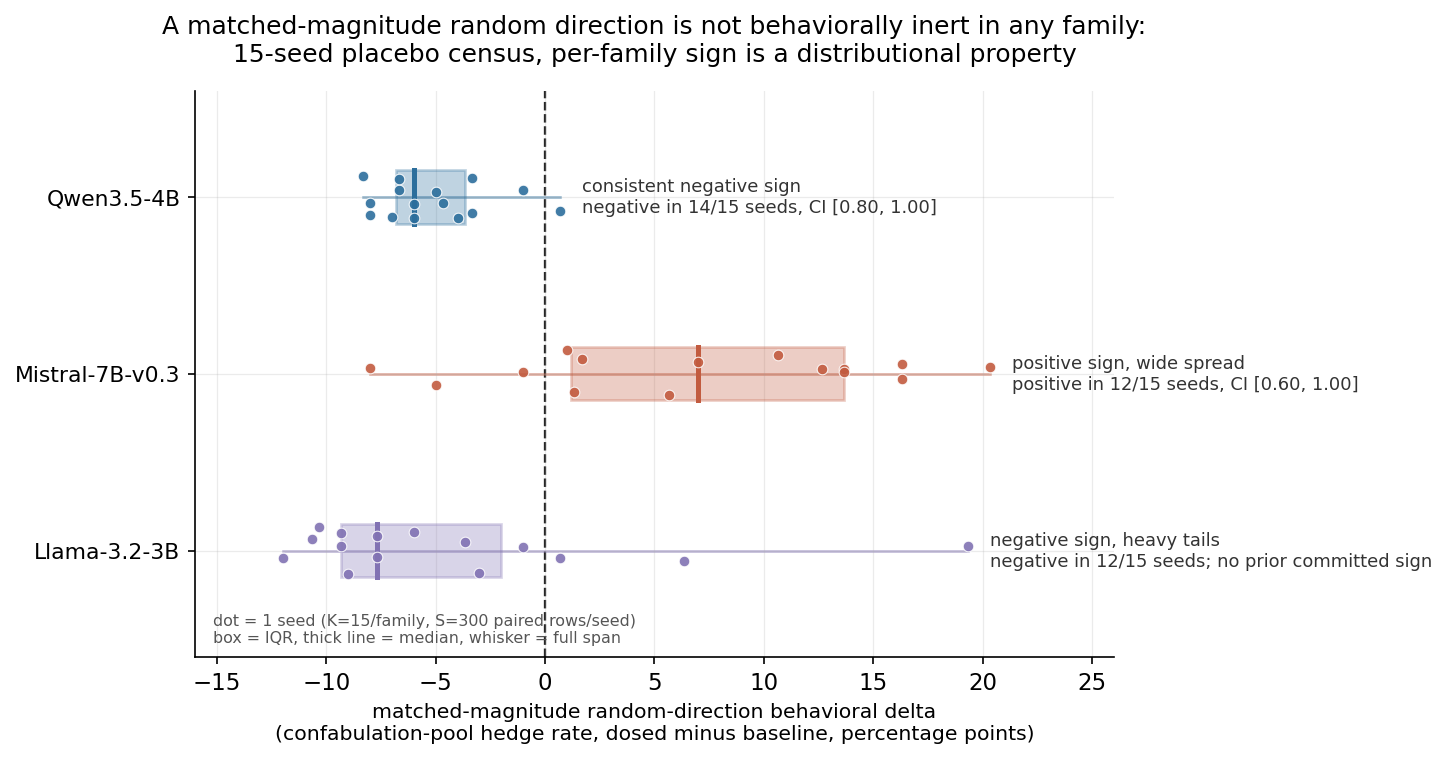
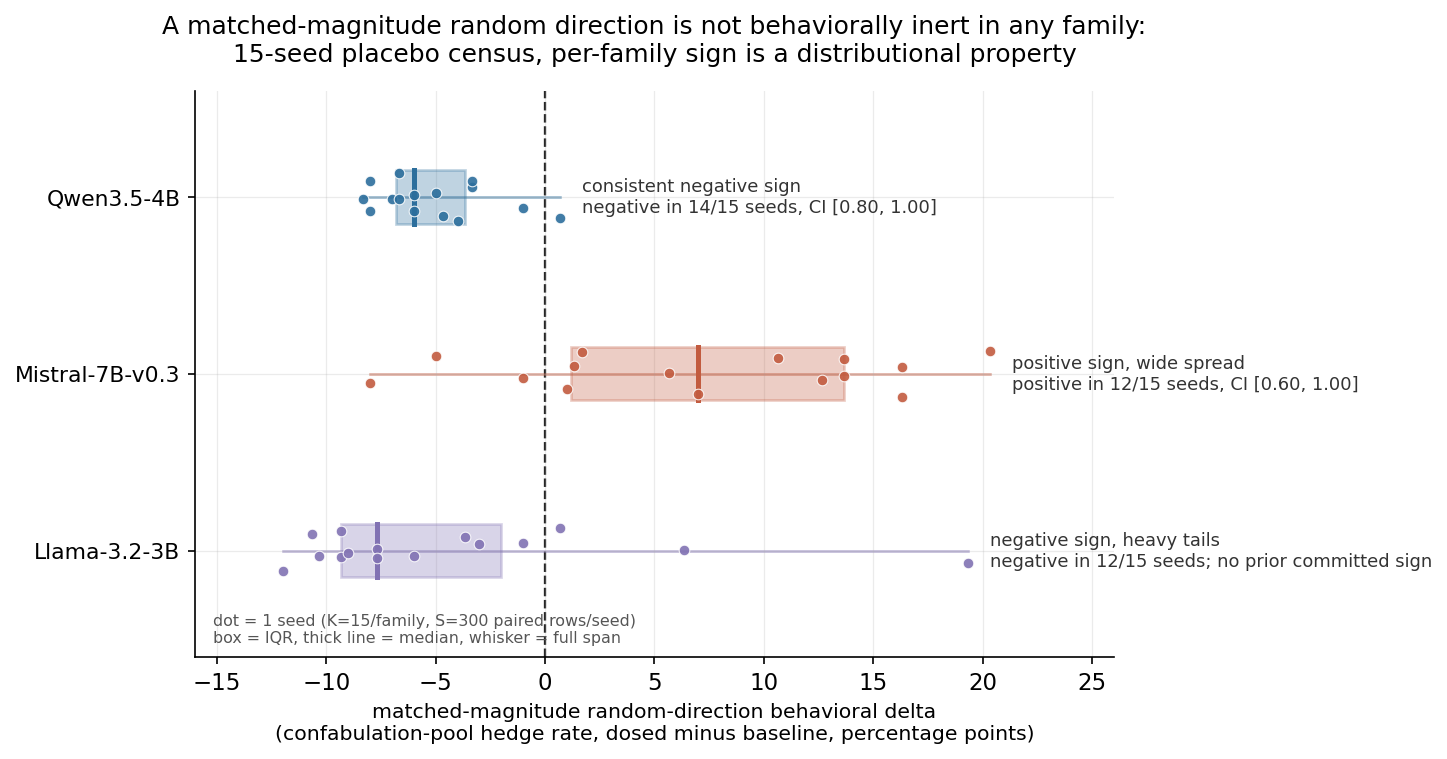
Paper 5: deterministic jitter seed for the placebo-census figure
build_restructure_figures.py seeded the per-family scatter jitter with
abs(hash(fam)), and Python string hashes are process-salted, so the figure
was not byte-reproducible across runs. Seed with zlib.crc32(fam.encode())
instead and regenerate once; only the cosmetic jitter offsets change, no
data. Verified byte-identical across two consecutive runs.

Claude-Session: https://claude.ai/code/session_012M6wLjiA3PHuTRN3V72TWD

diff --git a/papers/paper-5-actuation/scripts/build_restructure_figures.py b/papers/paper-5-actuation/scripts/build_restructure_figures.py
@@ -23,6 +23,8 @@ generation text).
 """
 from __future__ import annotations
 
+import zlib
+
 import json
 import statistics
 from pathlib import Path
@@ -130,7 +132,8 @@ def fig_d_placebo_census():
         # median line
         ax.plot([median, median], [y - box_h / 2, y + box_h / 2], color=color, lw=2.4, zorder=3)
         # individual seeds, jittered
-        rng = np.random.default_rng(abs(hash(fam)) % (2**32))
+        # zlib.crc32 is stable across processes; Python's str hash is salted
+        rng = np.random.default_rng(zlib.crc32(fam.encode()))
         jitter = rng.uniform(-0.14, 0.14, size=len(deltas))
         ax.scatter(deltas, y + jitter, s=26, color=color, edgecolor="white", linewidth=0.5,
                    zorder=4, alpha=0.9)
